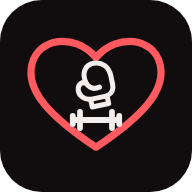
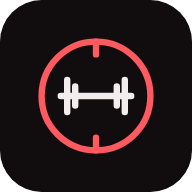
Ícone: halter num anel em traço fino
Claude-Session: https://claude.ai/code/session_01WTJ7pW5ukfkLtfk6ZwxXYC

Changed region(s): [[0.125, 0.1875, 0.875, 0.8125]]

diff --git a/sw.js b/sw.js
@@ -1,4 +1,4 @@
-const CACHE='treino-v4';
+const CACHE='treino-v5';
 const ASSETS=['./','index.html','manifest.webmanifest','icon-192.png','icon-512.png','apple-touch-icon.png'];
 self.addEventListener('install',e=>{e.waitUntil(caches.open(CACHE).then(c=>c.addAll(ASSETS)));self.skipWaiting()});
 self.addEventListener('activate',e=>{e.waitUntil(caches.keys().then(ks=>Promise.all(ks.filter(k=>k!==CACHE).map(k=>caches.delete(k)))));self.clients.claim()});
